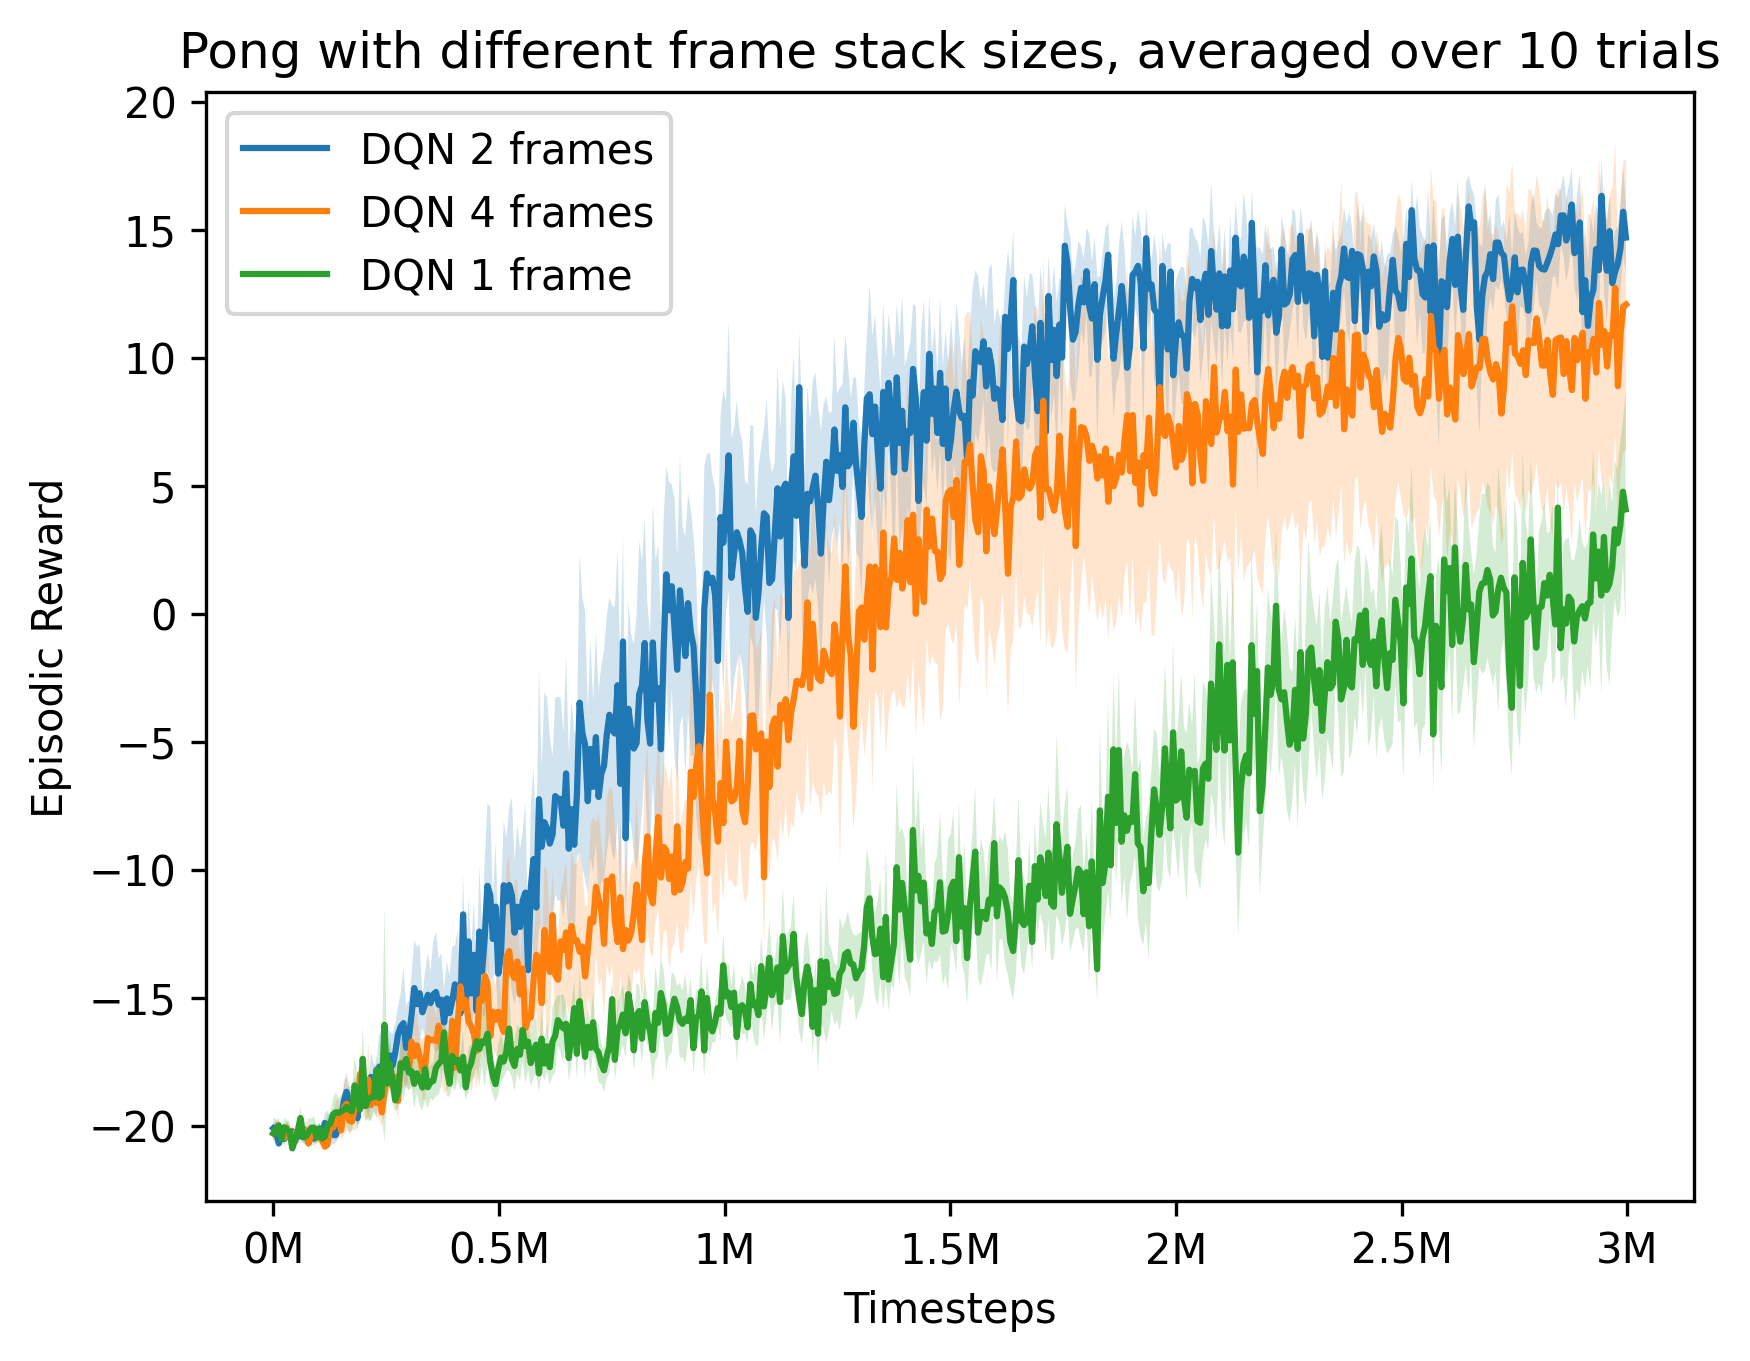
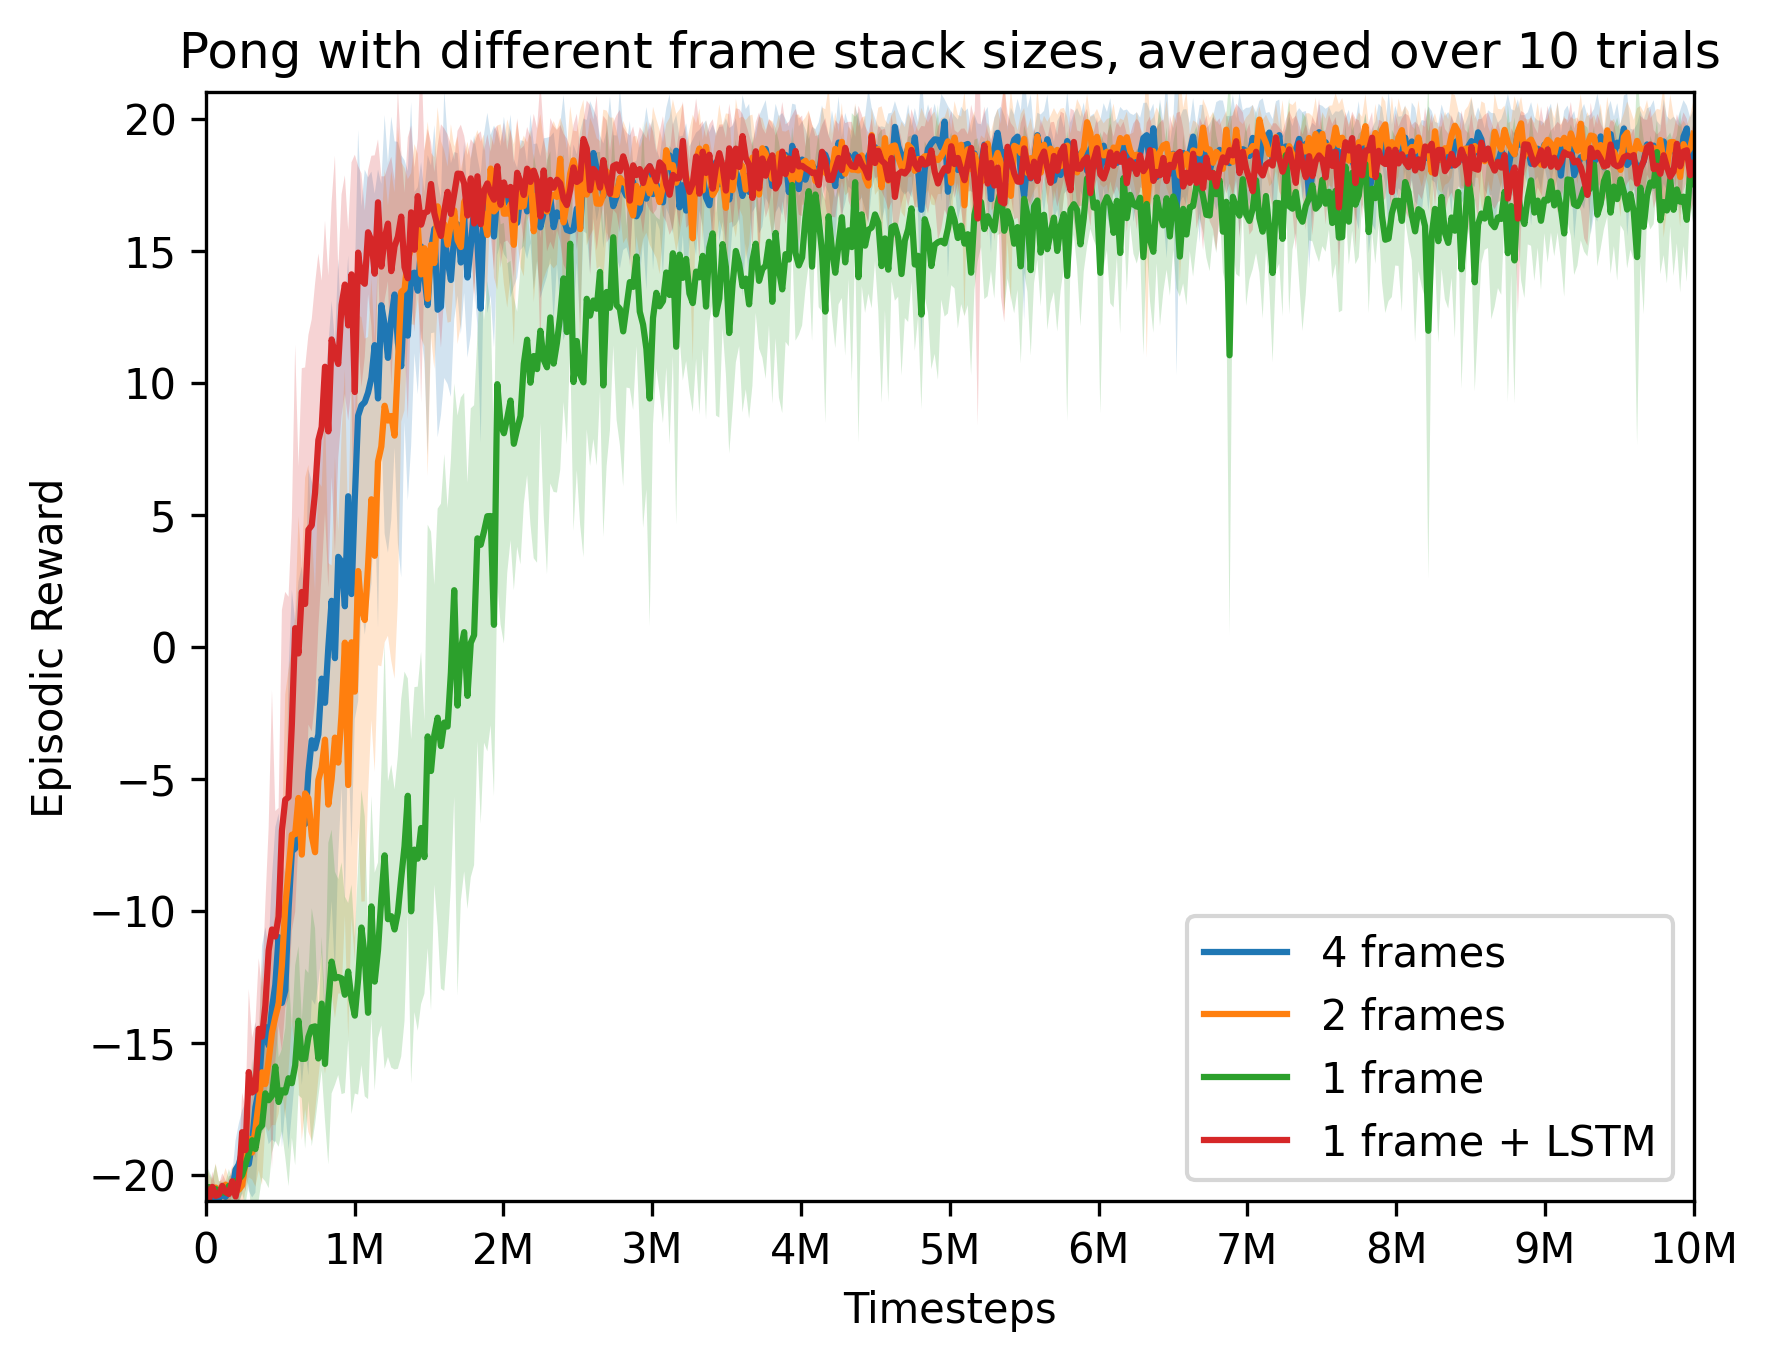
pong frame stack results

diff --git a/agents/lstm_ppo.py b/agents/lstm_ppo.py
@@ -13,6 +13,7 @@ class ActorCriticNetwork(torch.nn.Module):
         self.is_continuous = is_continuous
         self.is_conv = is_conv
         self.lstm_hidden_size = lstm_hidden_size
+        self.body_out_size = 64
 
         if is_conv:
             
@@ -28,27 +29,28 @@ class ActorCriticNetwork(torch.nn.Module):
 
             self.lstm = torch.nn.LSTM(3136, self.lstm_hidden_size, batch_first=False)
         else:
-            
+
+            self.actor_lstm = torch.nn.LSTM(*num_inputs, self.lstm_hidden_size, batch_first=False)
+            self.critic_lstm = torch.nn.LSTM(*num_inputs, self.lstm_hidden_size, batch_first=False)
+
             self.actor_body = torch.nn.Sequential(
-                torch.nn.Linear(*num_inputs, 64),
+                torch.nn.Linear(self.lstm_hidden_size, self.body_out_size),
                 torch.nn.ReLU(),
             )
 
             self.critic_body = torch.nn.Sequential(
-                torch.nn.Linear(*num_inputs, 64),
+                torch.nn.Linear(self.lstm_hidden_size, self.body_out_size),
                 torch.nn.ReLU(),
             )
 
-            self.actor_lstm = torch.nn.LSTM(64, self.lstm_hidden_size, batch_first=False)
-            self.critic_lstm = torch.nn.LSTM(64, self.lstm_hidden_size, batch_first=False)
 
-        self.critic_head = torch.nn.Linear(self.lstm_hidden_size, 1)
+        self.critic_head = torch.nn.Linear(self.body_out_size, 1)
 
         if is_continuous:
-            self.mu_head = torch.nn.Linear(self.lstm_hidden_size, *num_outputs)
+            self.mu_head = torch.nn.Linear(self.body_out_size, *num_outputs)
             self.log_sigma_head = torch.nn.Parameter(torch.zeros(*num_outputs))
         else:
-            self.logits_head = torch.nn.Linear(self.lstm_hidden_size, num_outputs)
+            self.logits_head = torch.nn.Linear(self.body_out_size, num_outputs)
 
     def forward(self, inp: torch.Tensor, inp_hidden: tuple = None):
         # inp is (batch_size (B), sequence_length (T), state_space_dim)
@@ -63,8 +65,13 @@ class ActorCriticNetwork(torch.nn.Module):
 
         else:
             actor_inp_hidden, critic_inp_hidden = inp_hidden if inp_hidden is not None else (None, None)
-            actor_lstm_out, actor_hidden_out = self.actor_lstm(self.actor_body(inp), actor_inp_hidden)
-            critic_lstm_out, critic_hidden_out = self.critic_lstm(self.critic_body(inp), critic_inp_hidden)
+
+            actor_lstm_out, actor_hidden_out = self.actor_lstm(inp, actor_inp_hidden)
+            actor_lstm_out = self.actor_body(actor_lstm_out)
+
+            critic_lstm_out, critic_hidden_out = self.critic_lstm(inp, critic_inp_hidden)
+            critic_lstm_out = self.critic_body(critic_lstm_out)
+
             hidden_out = (actor_hidden_out, critic_hidden_out)
         
         critic_out = self.critic_head(critic_lstm_out).squeeze(-1)
@@ -103,6 +110,7 @@ class LSTM_PPO(agents.Agent):
         self.action_space_dim = utils.detect_space_size(env.get_single_action_space())
         self.net = ActorCriticNetwork(self.state_space_dim, self.action_space_dim, self.is_continuous, self.is_conv, self.lstm_hidden_size).to(self.device)
         self.optim = torch.optim.Adam(self.net.parameters(), self.lr)
+        # self.optim = torch.optim.Adam(self.net.parameters(), self.lr)
         # self.optim = torch.optim.RMSprop(self.net.parameters(), self.lr, eps=1e-5)
 
     def _get_actions(self, states: torch.Tensor, hidden_states: tuple):
@@ -135,10 +143,10 @@ class LSTM_PPO(agents.Agent):
 
         # compute all advantages at once for use in minibatches later
         with torch.no_grad():
-            _, state_values, tmax_end_hidden = self.net(s, initial_hidden_states) # (tmax, num_envs, 1)
+            _, state_values, tmax_end_hidden = self.net(s, initial_hidden_states) # (tmax, num_envs)
             state_values = state_values.view(self.tmax, num_envs) # (tmax, num_envs)
 
-            _, last_state_value, _ = self.net(sprime[-1].unsqueeze(0), tmax_end_hidden) # (1, num_envs, 1)
+            _, last_state_value, _ = self.net(sprime[-1].unsqueeze(0), tmax_end_hidden) # (1, num_envs)
             last_state_value = last_state_value.view(num_envs) # (num_envs,
 
             gae = 0.0
@@ -148,7 +156,7 @@ class LSTM_PPO(agents.Agent):
                     next_state_values = last_state_value * masks[t] # (num_envs)
                 else:
                     next_state_values = state_values[t + 1] * masks[t] # (num_envs)
-                delta = r[t] + self.gamma * next_state_values * masks[t] - state_values[t]
+                delta = r[t] + self.gamma * next_state_values - state_values[t]
                 gae = delta + self.gamma * self.lam * masks[t] * gae
                 advantages[t] = gae
         
@@ -266,7 +274,11 @@ class LSTM_PPO(agents.Agent):
                 rewards[current_t] = torch.from_numpy(current_rewards).float().to(self.device)
                 sprimes[current_t] = torch.from_numpy(current_sprimes).float().to(self.device)
                 dones[current_t] = torch.from_numpy(current_isterms | current_istruncs).float().to(self.device)
-                old_log_probs[current_t] = dist.log_prob(current_actions).sum(-1)                
+
+                if self.is_continuous:
+                    old_log_probs[current_t] = dist.log_prob(current_actions).sum(-1)  
+                else:
+                    old_log_probs[current_t] = dist.log_prob(current_actions)              
 
                 if "episode" in current_infos:
                     done_idxs = current_infos["_episode"]

diff --git a/sb.py b/sb.py
@@ -2,7 +2,9 @@
 
 from stable_baselines3 import *
 from stable_baselines3.common.env_util import make_vec_env
+from stable_baselines3.common.vec_env import VecNormalize
 from stable_baselines3.common.callbacks import BaseCallback
+from sb3_contrib import RecurrentPPO
 from sb3_contrib import RecurrentPPO
 
 import numpy as np
@@ -45,24 +47,40 @@ class EpisodeRewardLogger(BaseCallback):
             with open(f"{path}/{var_name}.pkl", "wb") as f:
                 pickle.dump(value, f)
 
+def linear_schedule(initial_value):
+    def func(progress_remaining):
+        return progress_remaining * initial_value
+    return func
+
 
 LOG_PATH = "./runs"
 SEED = 1
-TIMESTEPS = 50000
+TIMESTEPS = 100000
 NUM_ENVS = 8
 STATS_WINDOW = 100
 
 # env = gym.make("Pendulum-v1", render_mode=None)
 vec_env = make_vec_env("POMDPCartPole", n_envs=NUM_ENVS, seed=SEED)
+vec_env = VecNormalize(vec_env)
 
 agent = RecurrentPPO("MlpLstmPolicy", vec_env, learning_rate=0.001, gamma=0.98, gae_lambda=0.8, n_steps=32,
                    ent_coef=0.0, vf_coef=0.5, max_grad_norm=0.5,
                    n_epochs=20, batch_size=256,
                    tensorboard_log=LOG_PATH,
-                   seed=SEED)
+                   seed=SEED,
+                   clip_range=linear_schedule(0.2),
+                   policy_kwargs=dict(
+                        ortho_init=False,
+                        activation_fn=torch.nn.ReLU,
+                        lstm_hidden_size=64,
+                        enable_critic_lstm=True,
+                        net_arch=dict(pi=[64], vf=[64])
+                    ),)
+
 # agent = TD3("MlpPolicy", vec_env, gamma=0.98, buffer_size=200000, learning_starts=10000, target_policy_noise=0.1, stats_window_size=STATS_WINDOW, seed=SEED, tensorboard_log=LOG_PATH)
-print(agent.policy)
 # agent = A2C("MlpPolicy", vec_env, ent_coef=0.0, stats_window_size=STATS_WINDOW, seed=SEED, tensorboard_log=LOG_PATH)
+
+print(agent.policy)
 
 logger = EpisodeRewardLogger()
 

diff --git a/utils/graphing_seeds.py b/utils/graphing_seeds.py
@@ -16,7 +16,7 @@ def load_seed(path):
 # labels = ["DQN 2 frames", "DQN 4 frames", "DQN 1 frame"]
 
 paths = ["pong_dqn_4frames_10million", "pong_dqn_2frames_10million", "pong_dqn_1frames_10million", "pong_drqn_1frames_10million"]
-labels = ["4 frames", "2 frames", "1 frame", "DRQN 1 frame"]
+labels = ["4 frames", "2 frames", "1 frame", "1 frame + LSTM"]
 
 for path, label in zip(paths, labels):
     all_seed_timesteps = []
@@ -30,7 +30,7 @@ for path, label in zip(paths, labels):
             print(f"File not found for {path}_seed{seed}")
 
     min_timesteps = min(timesteps[-1] for timesteps in all_seed_timesteps)
-    grid = np.linspace(0, min_timesteps, 500)
+    grid = np.linspace(0, min_timesteps, 450)
 
     curves = []
     for t, r in zip(all_seed_timesteps, all_seed_rewards):
@@ -46,6 +46,8 @@ for path, label in zip(paths, labels):
 plt.xlabel("Timesteps")
 plt.ylabel("Episodic Reward")
 plt.legend()
+plt.ylim(-21, 21)
+plt.xlim(0, 10e6)
 plt.title("Pong with different frame stack sizes, averaged over 10 trials")
 plt.xticks([0, 1e6, 2e6, 3e6, 4e6, 5e6, 6e6, 7e6, 8e6, 9e6, 10e6], ["0", "1M", "2M", "3M", "4M", "5M", "6M", "7M", "8M", "9M", "10M"])
 # plt.savefig("results/temps/data/pong_frame_stack_comparison.png", dpi=300, bbox_inches="tight")

diff --git a/agents/ppo.py b/agents/ppo.py
@@ -206,7 +206,10 @@ class PPO(agents.Agent):
                 rewards[current_t] = torch.from_numpy(current_rewards).float().to(self.device)
                 sprimes[current_t] = torch.from_numpy(current_sprimes).float().to(self.device)
                 dones[current_t] = torch.from_numpy(current_isterms | current_istruncs).float().to(self.device)
-                old_log_probs[current_t] = dist.log_prob(current_actions).sum(-1)                
+                if self.is_continuous:
+                    old_log_probs[current_t] = dist.log_prob(current_actions).sum(-1)  
+                else:
+                    old_log_probs[current_t] = dist.log_prob(current_actions)              
 
                 if "episode" in current_infos:
                     done_idxs = current_infos["_episode"]